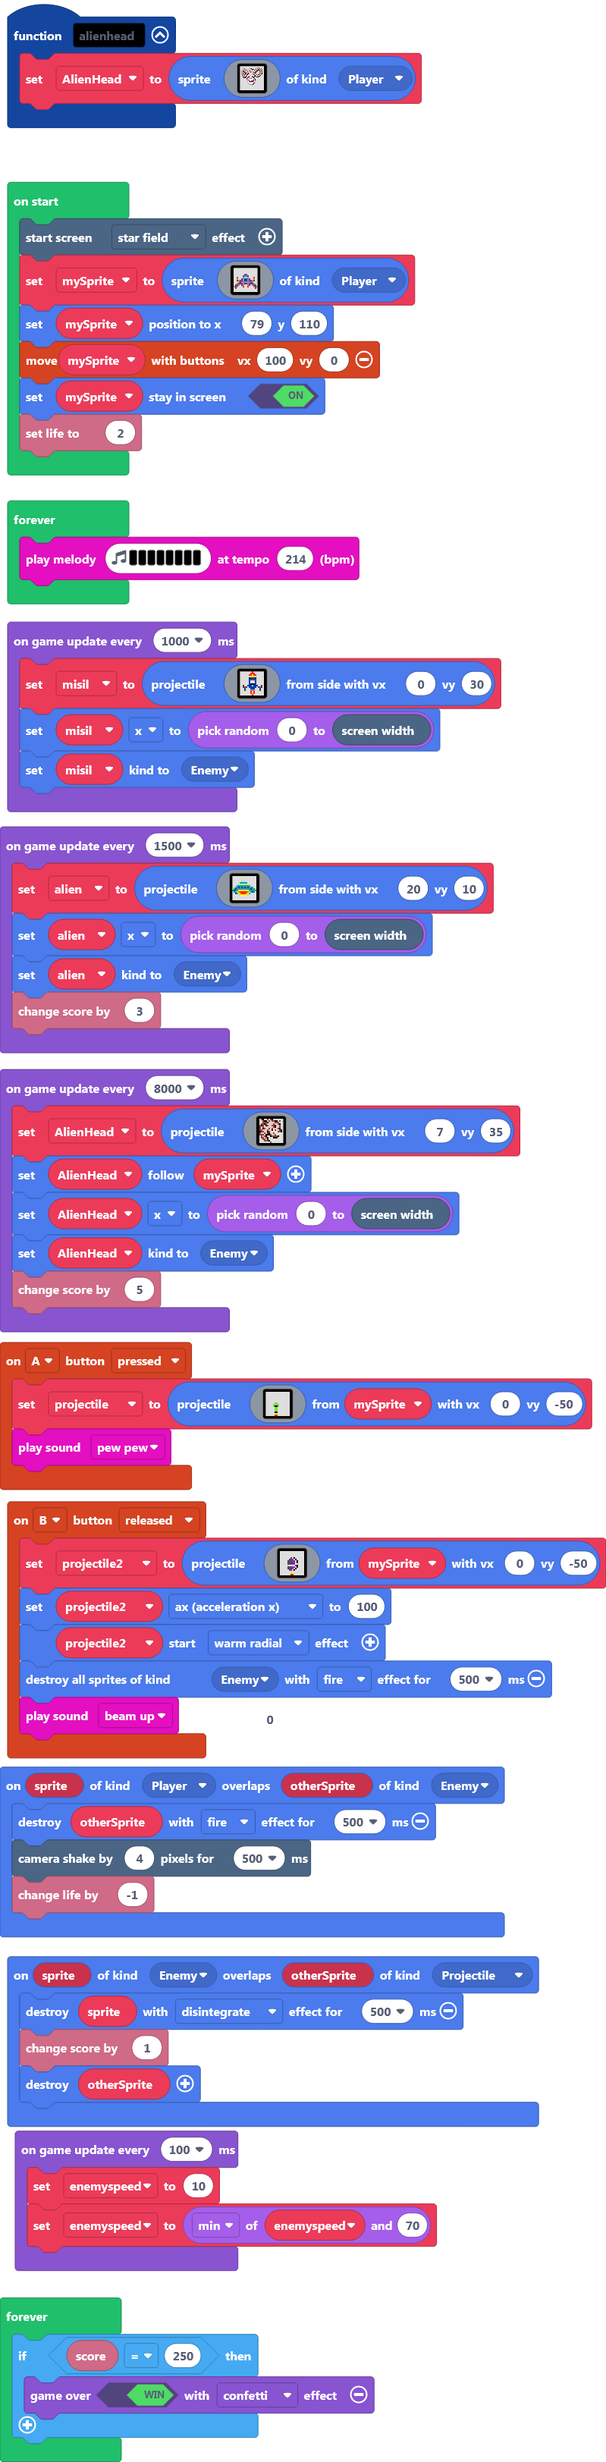
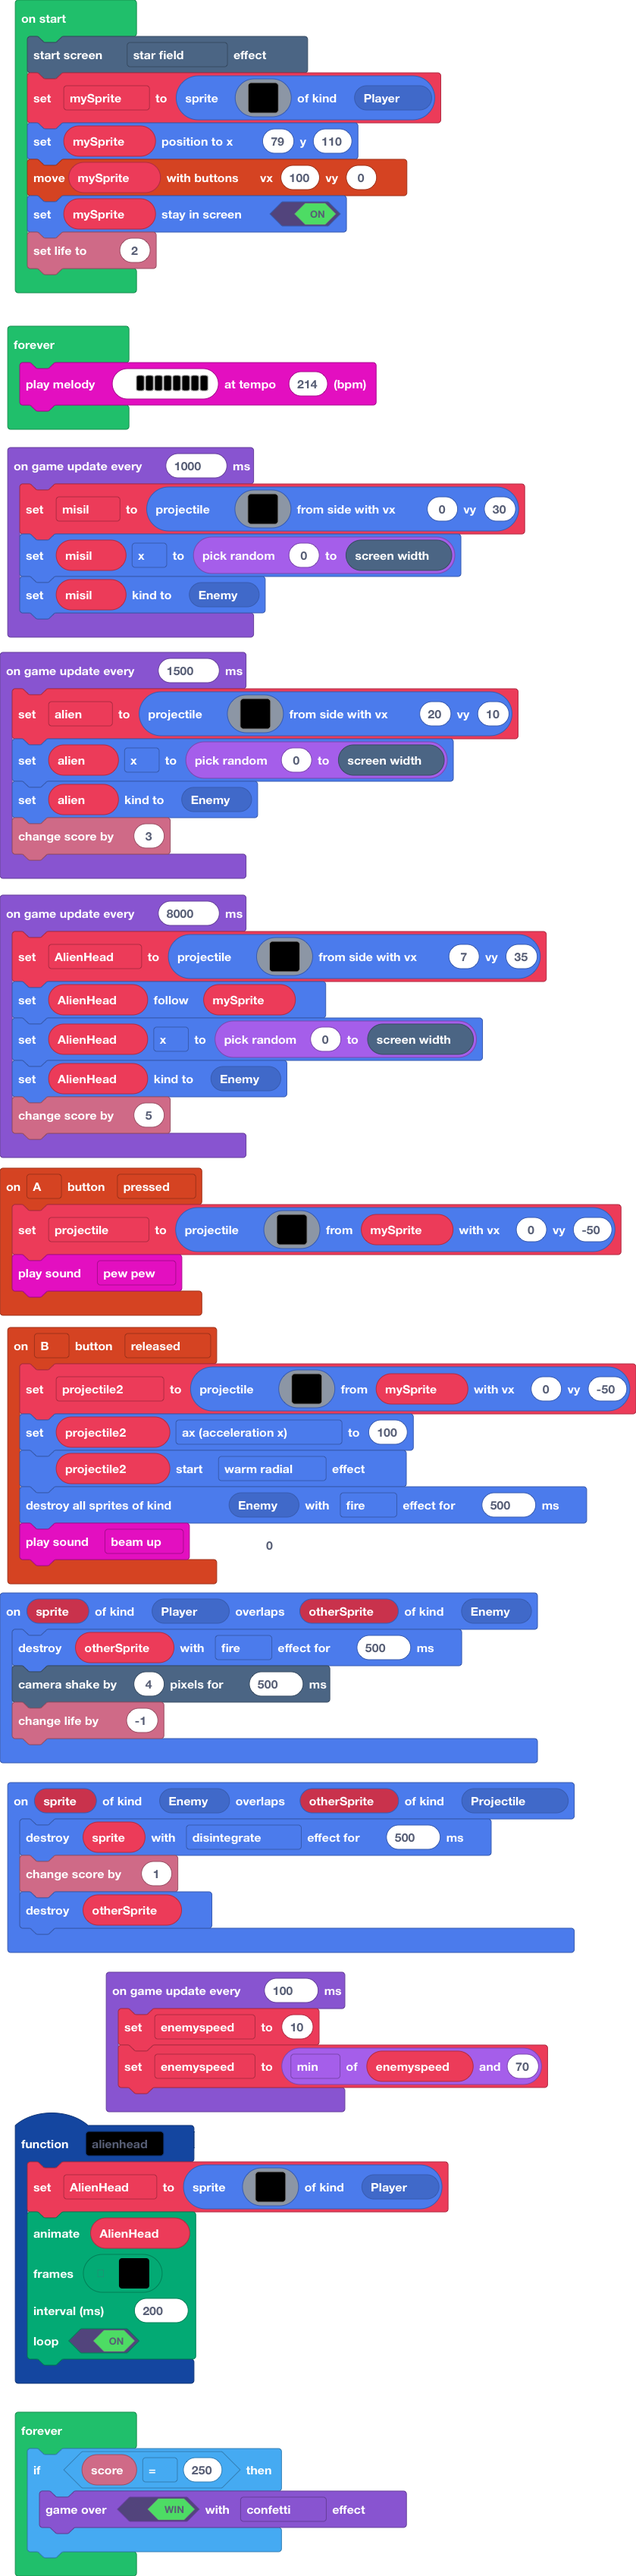
animations

diff --git a/images.g.ts b/images.g.ts
@@ -272,7 +272,137 @@ e e e d f f f e d d e 1 . . . .
 
     helpers._registerFactory("animation", function(name: string) {
         switch(helpers.stringTrim(name)) {
-
+            case "animated alienhead":
+            case "anim1":return [img`
+..........................................
+.....................bbbb.................
+..bbb......bbf.....bdedde.e...............
+..ddebb...b11bfff.bed.eedede..............
+.de.ddeb.b1bb1b11eddeeffedde..............
+bdeededdb1b21b1b1de.ef..ebee..............
+bdefedddeb1b2b1bddeef...ebde..............
+bde.fededb1bbb1beeef....bdde..............
+bde.bfeddeb111bddbf1....eebf..............
+bdee.fbeefb111bdf..e...eddbf..............
+.edbebdef11b1b11bf.de.fbedb...............
+.eedbdde1111b11b1bfddedddf................
+..bdedee1bb111b21bfbdddff.................
+..fbbef1b2fb1b2fbf..fffb..................
+...fffb1fb11111bf1........................
+.......f111f1f111f........................
+.......bb.111111b1f.......................
+........b2b1111bf1f.......................
+........b12b1bfb21b.......................
+........11bf2f2fb1b.......................
+........b11b.b1b1b........................
+.........b111111bf........................
+..........b1111bf.........................
+...........bbbbf..........................
+..........................................
+..........................................
+..........................................
+..........................................
+..........................................
+..........................................
+..........................................
+..........................................
+..........................................
+..........................................
+..........................................
+..........................................
+..........................................
+..........................................
+..........................................
+..........................................
+..........................................
+..........................................
+`, img`
+..........................................
+.....................bbbb.................
+..bbb......bbf.....bdedde.e...............
+..ddebb...b11bfff.bed.eedede..............
+.de.ddeb.b1bb1b11eddeeffedde..............
+bdeededdb1b22b1b1de.ef..ebee..............
+bdefedddeb1b2b1bddeef...ebde..............
+bde.fededb1bbb1beeef....bdde..............
+bde.bfeddeb111bddbf1....eebf..............
+bdee.fbeefb111bdf..e...eddbf..............
+.edbebdef11b1b11bf.de.fbedb...............
+.eedbdde1111b11b1bfddedddf................
+..bdedee1bb111b21bfbdddff.................
+..fbbef1b22b1b22bf..fffb..................
+...fffb1fb11111bf1........................
+.......f111f1f111f........................
+.......bb.111111b1f.......................
+........b2b1111bf1f.......................
+........b12b1bfb21b.......................
+.........b1f1f1ff1b.......................
+.........bfffffff1b.......................
+........11bf2f2fb1b.......................
+........b11b.b1b1b........................
+.........b111111bf........................
+..........b1111bf.........................
+...........bbbbf..........................
+..........................................
+..........................................
+..........................................
+..........................................
+..........................................
+..........................................
+..........................................
+..........................................
+..........................................
+..........................................
+..........................................
+..........................................
+..........................................
+..........................................
+..........................................
+..........................................
+`, img`
+..........................................
+.....................bbbb.................
+..bbb......bbf.....bdedde.e...............
+..ddebb...b11bfff.bed.eedede..............
+.de.ddeb.b1bb1b11eddeeffedde..............
+bdeededdb1b21b1b1de.ef..ebee..............
+bdefedddeb1b2b1bddeef...ebde..............
+bde.fededb1bbb1beeef....bdde..............
+bde.bfeddeb111bddbf1....eebf..............
+bdee.fbeefb111bdf..e...eddbf..............
+.edbebdef11b1b11bf.de.fbedb...............
+.eedbdde1111b11b1bfddedddf................
+..bdedee1bb111b21bfbdddff.................
+..fbbef1b2fb1b2fbf..fffb..................
+...fffb1fb11111bf1........................
+.......f111f1f111f........................
+.......bb.111111b1f.......................
+........b2b1111bf1f.......................
+........b12b1bfb21b.......................
+........11bf2f2fb1b.......................
+........b11b.b1b1b........................
+.........b111111bf........................
+..........b1111bf.........................
+...........bbbbf..........................
+..........................................
+..........................................
+..........................................
+..........................................
+..........................................
+..........................................
+..........................................
+..........................................
+..........................................
+..........................................
+..........................................
+..........................................
+..........................................
+..........................................
+..........................................
+..........................................
+..........................................
+..........................................
+`];
         }
         return null;
     })

diff --git a/main.ts b/main.ts
@@ -1,5 +1,11 @@
 function alienhead () {
     AlienHead = sprites.create(assets.image`alien_head`, SpriteKind.Player)
+    animation.runImageAnimation(
+    AlienHead,
+    assets.animation`animated alienhead`,
+    200,
+    true
+    )
 }
 controller.A.onEvent(ControllerButtonEvent.Pressed, function () {
     projectile = sprites.createProjectileFromSprite(assets.image`shoot`, mySprite, 0, -50)
